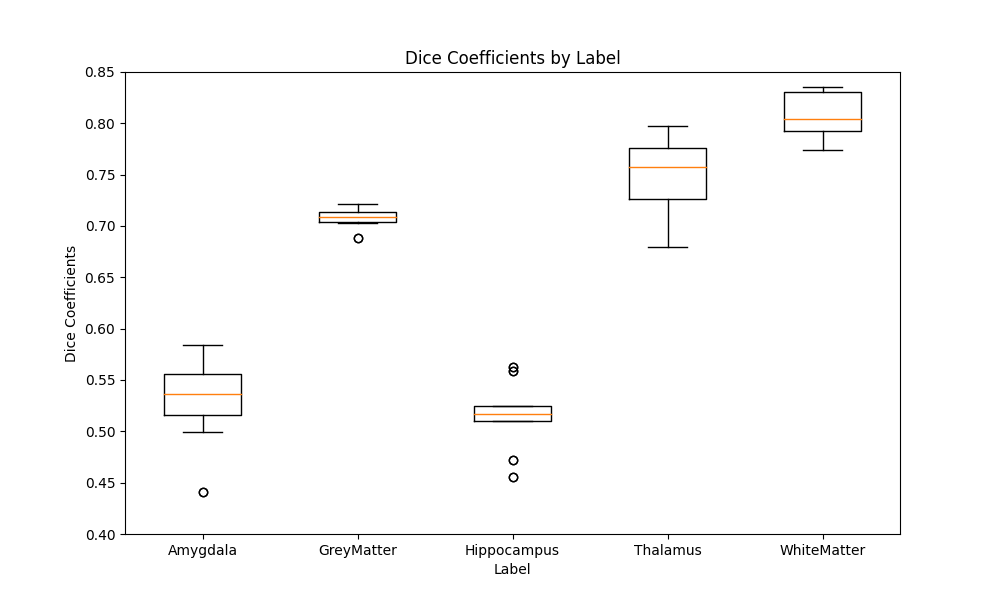
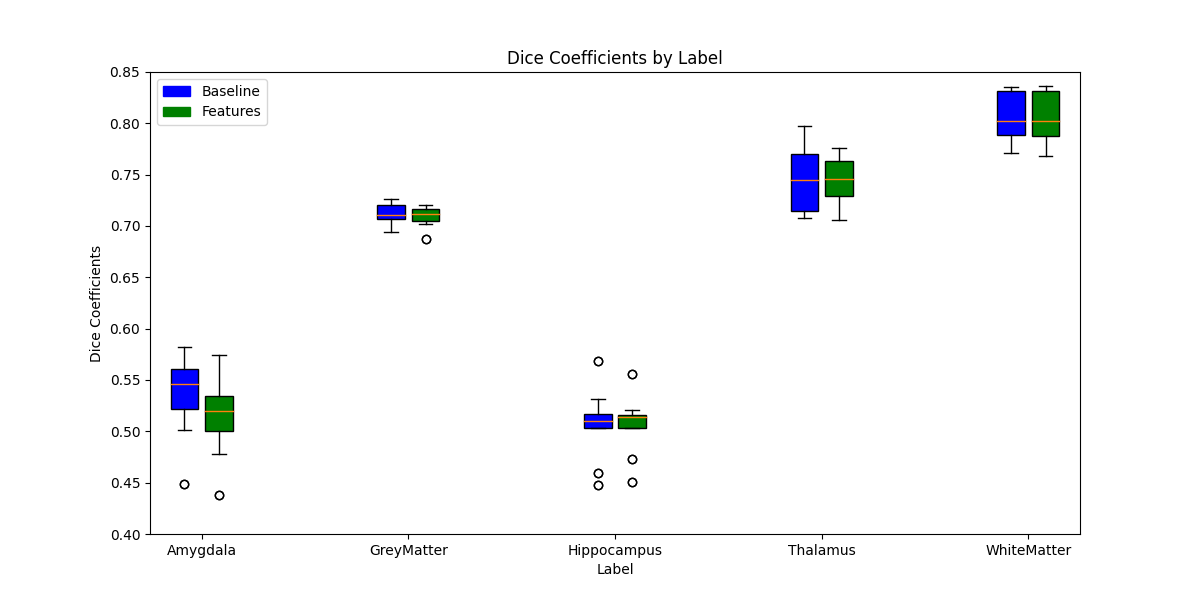
Imc1 correctly defined

diff --git a/mialab/utilities/pipeline_utilities.py b/mialab/utilities/pipeline_utilities.py
@@ -44,8 +44,9 @@ class FeatureImageTypes(enum.Enum):
     T1w_GRADIENT_INTENSITY = 3
     T2w_INTENSITY = 4
     T2w_GRADIENT_INTENSITY = 5
-    T1w_GLCM = 6   # TODO: Added here
-    T2w_GLCM = 7   # TODO: Added here
+    T1w_GLCM_IMC1 = 6  # DONE: GLCM feature for T1-weighted images
+    T2w_GLCM_IMC1 = 7  # GLCM feature for T2-weighted images
+
 
 class FeatureExtractor:
     """Represents a feature extractor."""
@@ -62,8 +63,14 @@ class FeatureExtractor:
         self.intensity_feature = kwargs.get('intensity_feature', False)
         self.gradient_intensity_feature = kwargs.get('gradient_intensity_feature', False)
         self.GLCM_features = kwargs.get('GLCM_features', False)  # TODO: ensure this is correct
-                                                                # initialization
-        self.GLCM_features_parameters = kwargs.get('GLCM_features_parameters', {}) # Here too
+        # self.GLCM_features_parameters = kwargs.get('GLCM_features_parameters', {}) # Here too
+
+        # Initialize PyRadiomics feature extractor for GLCM features
+        if self.GLCM_features:
+            self.pyradiomics_extractor = featureextractor.RadiomicsFeatureExtractor()
+            self.pyradiomics_extractor.disableAllFeatures()
+            self.pyradiomics_extractor.enableFeatureClassByName('glcm')
+            self.pyradiomics_extractor.enableFeaturesByName(glcm=['Imc1'])
 
     @property
     def execute(self) -> structure.BrainImage:
@@ -90,27 +97,43 @@ class FeatureExtractor:
             self.img.feature_images[FeatureImageTypes.T2w_GRADIENT_INTENSITY] = \
                 sitk.GradientMagnitude(self.img.images[structure.BrainImageTypes.T2w])
 
+        # if self.GLCM_features:
+        #     glcmT1w_features = glcm.RadiomicsGLCM(self.img.images[structure.BrainImageTypes.T1w],
+        #                                           self.img.images[structure.BrainImageTypes.BrainMask],
+        #                                           voxelBased=True)
+        #     glcmT1w_features.enabledFeatures = self.GLCM_features_parameters
+        #     self.img.feature_images[FeatureImageTypes.T1w_GLCM] = glcmT1w_features.execute()
+        #     self.img.feature_images[FeatureImageTypes.T1w_GLCM] = sitk.Compose(
+        #         list(self.img.feature_images[FeatureImageTypes.T1w_GLCM].values()))
+        #     self.img.feature_images[FeatureImageTypes.T1w_GLCM].CopyInformation(
+        #         self.img.images[structure.BrainImageTypes.T1w])
+        #     glcmT2w_features = glcm.RadiomicsGLCM(self.img.images[structure.BrainImageTypes.T2w],
+        #                                           self.img.images[structure.BrainImageTypes.BrainMask],
+        #                                           voxelBased=True)
+        #     glcmT2w_features.enabledFeatures = self.GLCM_features_parameters
+        #     self.img.feature_images[FeatureImageTypes.T2w_GLCM] = glcmT2w_features.execute()
+        #     self.img.feature_images[FeatureImageTypes.T2w_GLCM] = sitk.Compose(
+        #         list(self.img.feature_images[FeatureImageTypes.T2w_GLCM].values()))
+        #     self.img.feature_images[FeatureImageTypes.T2w_GLCM].CopyInformation(
+        #         self.img.images[structure.BrainImageTypes.T2w])
+        # if self.GLCM_features:  # DONE: PyRadiomics GLCM Features
+        #     # Extract GLCM features for T1-weighted images
+        #     glcm_features_t1 = self.pyradiomics_extractor.execute(self.img.images[structure.BrainImageTypes.T1w])
+        #     self.img.feature_images['T1w_GLCM_IMC1'] = glcm_features_t1['glcm_imc1']
+        #
+        #     # Extract GLCM features for T2-weighted images
+        #     glcm_features_t2 = self.pyradiomics_extractor.execute(self.img.images[structure.BrainImageTypes.T2w])
+        #     self.img.feature_images['T2w_GLCM_IMC1'] = glcm_features_t2['glcm_imc1']
         if self.GLCM_features:
-            # TODO: GLCM Features
-            # compute GLCM features
-            glcmT1w_features = glcm.RadiomicsGLCM(self.img.images[structure.BrainImageTypes.T1w],
-                                                  self.img.images[structure.BrainImageTypes.BrainMask],
-                                                  voxelBased=True)
-            glcmT1w_features.enabledFeatures = self.GLCM_features_parameters
-            self.img.feature_images[FeatureImageTypes.T1w_GLCM] = glcmT1w_features.execute()
-            self.img.feature_images[FeatureImageTypes.T1w_GLCM] = sitk.Compose(
-                list(self.img.feature_images[FeatureImageTypes.T1w_GLCM].values()))
-            self.img.feature_images[FeatureImageTypes.T1w_GLCM].CopyInformation(
-                self.img.images[structure.BrainImageTypes.T1w])
-            glcmT2w_features = glcm.RadiomicsGLCM(self.img.images[structure.BrainImageTypes.T2w],
-                                                  self.img.images[structure.BrainImageTypes.BrainMask],
-                                                  voxelBased=True)
-            glcmT2w_features.enabledFeatures = self.GLCM_features_parameters
-            self.img.feature_images[FeatureImageTypes.T2w_GLCM] = glcmT2w_features.execute()
-            self.img.feature_images[FeatureImageTypes.T2w_GLCM] = sitk.Compose(
-                list(self.img.feature_images[FeatureImageTypes.T2w_GLCM].values()))
-            self.img.feature_images[FeatureImageTypes.T2w_GLCM].CopyInformation(
-                self.img.images[structure.BrainImageTypes.T2w])
+            # Extract and process GLCM features for T1-weighted images
+            glcm_features_t1 = self.pyradiomics_extractor.execute(
+                self.img.images[structure.BrainImageTypes.T1w],  # The image
+                self.img.images[structure.BrainImageTypes.BrainMask])  # The mask
+
+            # Similarly for T2-weighted images
+            glcm_features_t2 = self.pyradiomics_extractor.execute(
+                self.img.images[structure.BrainImageTypes.T2w],  # The image
+                self.img.images[structure.BrainImageTypes.BrainMask])
 
         self._generate_feature_matrix()
 
@@ -144,15 +167,65 @@ class FeatureExtractor:
             mask = sitk.GetArrayFromImage(mask)
             mask = np.logical_not(mask)
 
+        # DONE: Prepare a list for all features
+        all_features = []
+
+        # DONE: Add existing features from feature_images
+        for _, image in self.img.feature_images.items():
+            features = self._image_as_numpy_array(image, mask)
+            all_features.append(features)
+
+        # Check if GLCM features are present and process them
+        if 'T1w_GLCM_IMC1' in self.img.feature_images:
+            glcm_feature_t1 = self._process_glcm_feature(self.img.feature_images['T1w_GLCM_IMC1'], mask)
+            all_features.append(glcm_feature_t1)
+
+        # Similarly process GLCM features for T2w images if they exist
+        if 'T2w_GLCM_IMC1' in self.img.feature_images:
+            glcm_feature_t2 = self._process_glcm_feature(self.img.feature_images['T2w_GLCM_IMC1'], mask)
+            all_features.append(glcm_feature_t2)
+
+        # DONE: Concatenate all features
+        data = np.concatenate(all_features, axis=1)
+
         # generate features
-        data = np.concatenate(
-            [self._image_as_numpy_array(image, mask) for id_, image in self.img.feature_images.items()],
-            axis=1)
+        # data = np.concatenate(
+        #     [self._image_as_numpy_array(image, mask) for id_, image in self.img.feature_images.items()],
+        #     axis=1)
 
         # generate labels (note that we assume to have a ground truth even for testing)
         labels = self._image_as_numpy_array(self.img.images[structure.BrainImageTypes.GroundTruth], mask)
 
         self.img.feature_matrix = (data.astype(np.float32), labels.astype(np.int16))
+
+    def _process_glcm_feature(self, glcm_feature, mask):
+        """Processes the GLCM feature to make it compatible with the feature matrix.
+
+        Args:
+            glcm_feature (dict): The GLCM feature dictionary.
+            mask (np.ndarray): The mask to apply to the feature.
+
+        Returns:
+            np.ndarray: The processed GLCM feature array.
+        """
+
+        # DONE : Process GLCM feature
+        # Assuming the GLCM feature is in a dictionary format with the key 'imc1'
+        feature_array = glcm_feature.get('Imc1')
+
+        # Reshape or process the GLCM feature as necessary to match your feature matrix format
+        # The specifics of this will depend on the format of your GLCM feature data
+        # For example, if feature_array is a 3D array (x, y, z), you may need to flatten it
+        # and apply the mask to select only the relevant voxels
+
+        # Example of flattening and applying mask (adjust as needed):
+        feature_array_flattened = feature_array.flatten()
+        masked_feature = feature_array_flattened[mask]
+
+        # Reshape to match the (n_voxels, 1) format expected for each feature
+        processed_feature = masked_feature.reshape(-1, 1)
+
+        return processed_feature
 
     @staticmethod
     def _image_as_numpy_array(image: sitk.Image, mask: np.ndarray = None):

diff --git a/bin/main.py b/bin/main.py
@@ -59,11 +59,10 @@ def main(result_dir: str, data_atlas_dir: str, data_train_dir: str, data_test_di
                                           futil.BrainImageFilePathGenerator(),
                                           futil.DataDirectoryFilter())
 
-    # TODO: List here features we want to try
-    glcm_parameters_list = {'Imc1': True,
-                            'Imc2': True,
-                            'Idm': True,
-                            }
+    # glcm_parameters_list = {'Imc1': True,
+    #                         # 'Imc2': True,
+    #                         # 'Idm': True,
+    #                         }
 
     pre_process_params = {'skullstrip_pre': True,
                           'normalization_pre': True,
@@ -71,12 +70,12 @@ def main(result_dir: str, data_atlas_dir: str, data_train_dir: str, data_test_di
                           'coordinates_feature': True,
                           'intensity_feature': True,
                           'gradient_intensity_feature': True,
-                          'GLCM_features': False,    # TODO: False = Baseline and True = Test with Pyradiomics
-                          'GLCM_features_parameters': glcm_parameters_list,
-                          'n_estimators': 50,   # TODO: Test other values
-                          'max_depth': 60   # TODO: Test other values
+                          'GLCM_features': False,  # Enable GLCM feature extraction
+                          'n_estimators': 50,
+                          'max_depth': 60
                           }
 
+    # 'GLCM_features_parameters': glcm_parameters_list,
     # load images for training and pre-process
     images = putil.pre_process_batch(crawler.data, pre_process_params, multi_process=False)
 
@@ -84,7 +83,7 @@ def main(result_dir: str, data_atlas_dir: str, data_train_dir: str, data_test_di
     data_train = np.concatenate([img.feature_matrix[0] for img in images])
     labels_train = np.concatenate([img.feature_matrix[1] for img in images]).squeeze()
 
-    #warnings.warn('Random forest parameters not properly set.')
+    # warnings.warn('Random forest parameters not properly set.')
     # forest = sk_ensemble.RandomForestClassifier(max_features=images[0].feature_matrix[0].shape[1],
     #                                             n_estimators=1,
     #                                             max_depth=5)

diff --git a/bin/boxplot.py b/bin/boxplot.py
@@ -10,8 +10,8 @@ def main():
     current_directory = os.getcwd()
     target_directory = os.path.join(current_directory, 'mia-result')
 
-    folder_name_baseline = '2023-11-06-19-15-49'  # Change here!!!!!!!!!
-    folder_name_features = '2023-11-06-18-05-53'  # Change here!!!!!!!!!
+    folder_name_baseline = '2023-11-14-12-22-05'  # Change here!!!!!!!!!# Baseline
+    folder_name_features = '2023-11-14-11-44-14'  # Change here!!!!!!!!!
     file_name = 'results.csv'
 
     file_path_baseline = os.path.join(target_directory, folder_name_baseline, file_name)
